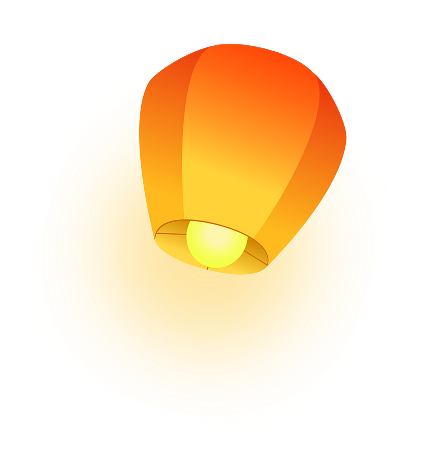
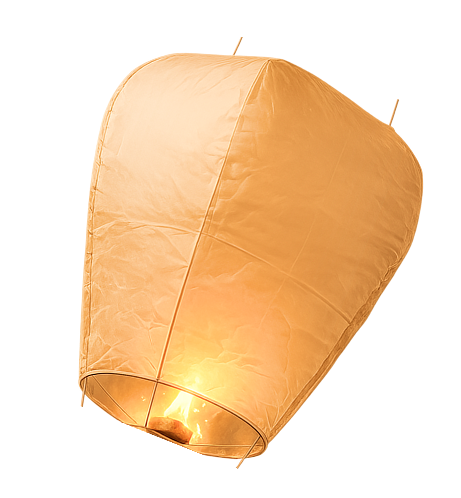
update

diff --git a/app/components/CoupleMessage.jsx b/app/components/CoupleMessage.jsx
@@ -15,7 +15,7 @@ export default function CoupleMessage() {
             img: '/assets/2.webp',
         },
 
-         {
+        {
             img: '/assets/3.webp',
         },
 
@@ -23,17 +23,29 @@ export default function CoupleMessage() {
             img: '/assets/4.webp',
         },
 
-         {
+        {
             img: '/assets/5.webp',
-        },  
+        },
+        
+        {
+            img: '/assets/6.webp',
+        },
+
+        {
+            img: '/assets/1.webp',
+        },
+
+        {
+            img: '/assets/2.webp',
+        },
     ]
 
     return (
 
         <div className="bg-[url('/assets/respo_two.webp')] md:bg-[url('/assets/bg_two.webp')] bg-cover bg-no-repeat">
-             <div className="h-672 md:h-585 lg:h-893 3xl:h-1074">
+             <div className="h-696 md:h-585 lg:h-893 3xl:h-1054">
                 <h1 className="text-base md:text-2xl lg:text-[36px] text-center text-[#FFF097] lg:pt-40 pt-20 jacques-francois">A message from the couple</h1>
-                <h2 className="text-xs md:text-xl lg:text-[32px] text-center text-[#FFF097] px-3 md:px-17 lg:px-53 3xl:px-103 mt-12 lg:mt-36 jacques-francois leading-7 md:leading-tight">
+                <h2 className="text-xs md:text-xl lg:text-[32px] text-center text-[#FFF097] px-3 md:px-17 lg:px-53 3xl:px-103 mt-12 lg:mt-36 jacques-francois leading-5 md:leading-tight">
                     We are both so delighted that you are able to join us in celebrating what 
                     we hope will be one of the happiest days of our lives. The affection shown 
                     to us by so many people since our roka has been incredibly moving, and has 
@@ -41,7 +53,7 @@ export default function CoupleMessage() {
                     everyone most sincerely for their kindness.We are looking forward to see 
                     you at the wedding.
                 </h2>
-                 <div className="md:mt-32 mt-26 lg:mt-44 flex justify-center items-center">
+                 <div className="md:mt-32 mt-26 lg:mt-44 flex justify-center items-center overflow-visible">
                     <Swiper
                         modules={[Autoplay, Pagination]}
                         autoplay={{ delay: 3500, disableOnInteraction: false }}
@@ -49,7 +61,7 @@ export default function CoupleMessage() {
                         centeredSlides={true}
                         
                         pagination={{ clickable: true }}
-                        className="w-full py-12 overflow-visible"
+                        className="w-full py-12 max-w-screen-3xl overflow-visible"
                         breakpoints={{
                             0: {
                                 slidesPerView: 1.50,
@@ -63,14 +75,18 @@ export default function CoupleMessage() {
                                 slidesPerView: 3,
                                 spaceBetween: 40,
                             },
+                            1536: {
+                                slidesPerView: 3.5,
+                                spaceBetween: 50,
+                            },
                         }}
                     >
                         {testimonial.map((item, index) => (
-                            <SwiperSlide key={index} className="flex justify-center">
+                            <SwiperSlide key={index} className="flex justify-center w-auto!">
                                 <img
                                     src={item.img}
                                     alt=""
-                                    className="w-full h-120 md:h-90 lg:h-135 3xl:h-195 object-cover rounded-[60px]"
+                                    className="w-full h-120 md:h-90 lg:h-135 3xl:h-175 object-cover rounded-[60px]"
                                 />
                             </SwiperSlide>
                         ))}
@@ -106,7 +122,7 @@ export default function CoupleMessage() {
                 <img
                   src="/assets/staff.webp"
                   alt="drive"
-                  className="md:h-26 lg:h-27 lg:w-21 h-34 w-29"
+                  className="md:h-26 lg:h-27 lg:w-21 h-36 w-29"
                 />
                 <h2 className="text-[50px] md:text-3xl lg:text-[42px] text-[#FFF097] mt-2 jacques-francois">
                   Staff
@@ -154,7 +170,7 @@ export default function CoupleMessage() {
                 <img
                 src="/assets/couple_second.webp"
                 alt="couple"
-                className="w-108 h-54 md:w-205 md:h-103 lg:w-381 lg:h-192 3xl:w-480 3xl:h-243 object-cover"/>
+                className="w-108 h-88 md:w-205 md:h-103 lg:w-381 lg:h-192 3xl:w-480 3xl:h-243 object-cover"/>
             </div>
 
             </div>

diff --git a/app/page.tsx b/app/page.tsx
@@ -141,7 +141,7 @@ export default function Home() {
         {playing ? "⏸" : "▶"}
       </button>
 
-      <audio ref={audioRef} src="/assets/background_song_muslim.mp3" loop preload="auto" playsInline />
+      <audio ref={audioRef} src="/assets/background_song.mp3" loop preload="auto" playsInline />
 
       {/* hero section */}
       <div className=" bg-[url('/assets/respo_bg.webp')] md:bg-[url('/assets/background.webp')] bg-cover bg-no-repeat
@@ -269,7 +269,7 @@ export default function Home() {
           </div>
 
           <div className="flex justify-center mt-20 lg:mt-40">
-            <div className="grid grid-cols-1 sm:grid-cols-2 lg:grid-cols-3 gap-16 lg:gap-28 3xl:gap-56">
+            <div className="grid grid-cols-1 sm:grid-cols-2 lg:grid-cols-3 gap-16 lg:gap-28 3xl:gap-50">
               {events.map((event, i) => (
                 <div key={i} className="flex flex-col items-center text-center">
                   <img
@@ -297,11 +297,11 @@ export default function Home() {
           </div>
 
 
-          <div className="flex items-center pt-30 lg:pt-50 3xl:pt-90">
+          <div className="flex items-center pt-30 lg:pt-50 3xl:pt-90 3xl:gap-60">
             <Image
               src="/assets/couple_one.webp"
               alt="couple" width={900} height={1200}
-              className="w-60 h-80 md:w-131 md:h-190 lg:w-219 lg:h-294 3xl:w-270 3xl:h-346 object-cover"/>
+              className="w-65 h-90 md:w-131 md:h-190 lg:w-219 lg:h-294 3xl:w-270 3xl:h-346 object-cover"/>
 
             {/* Center Text */}
             <div className="flex flex-col justify-center items-center text-center md:mb-0 lg:mb-0">
@@ -321,7 +321,7 @@ export default function Home() {
       <CoupleMessage />
 
       <div className="bg-[url('/assets/respo_three.webp')] md:bg-[url('/assets/bg_three.webp')] bg-cover bg-no-repeat">
-        <div className="h-250 md:h-179 lg:h-333 3xl:h-419 flex flex-col items-center relative">
+        <div className="h-255 md:h-179 lg:h-333 3xl:h-419 flex flex-col items-center relative">
           <img src="/assets/logo.webp" alt="logo" width={250} height={300} className="absolute top-28 w-42 h-48 md:top-41 md:w-28 md:h-35 lg:top-78 lg:w-48 lg:h-55 3xl:top-101" />
         </div>
       </div>